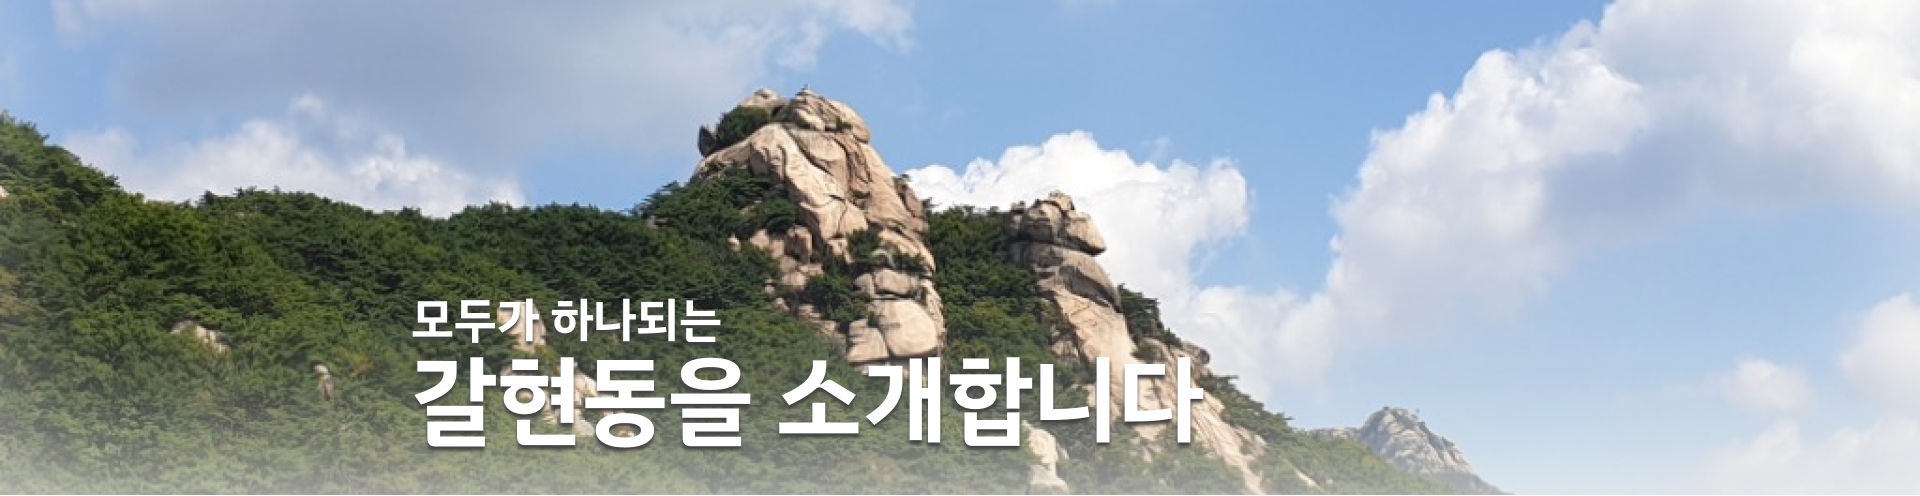
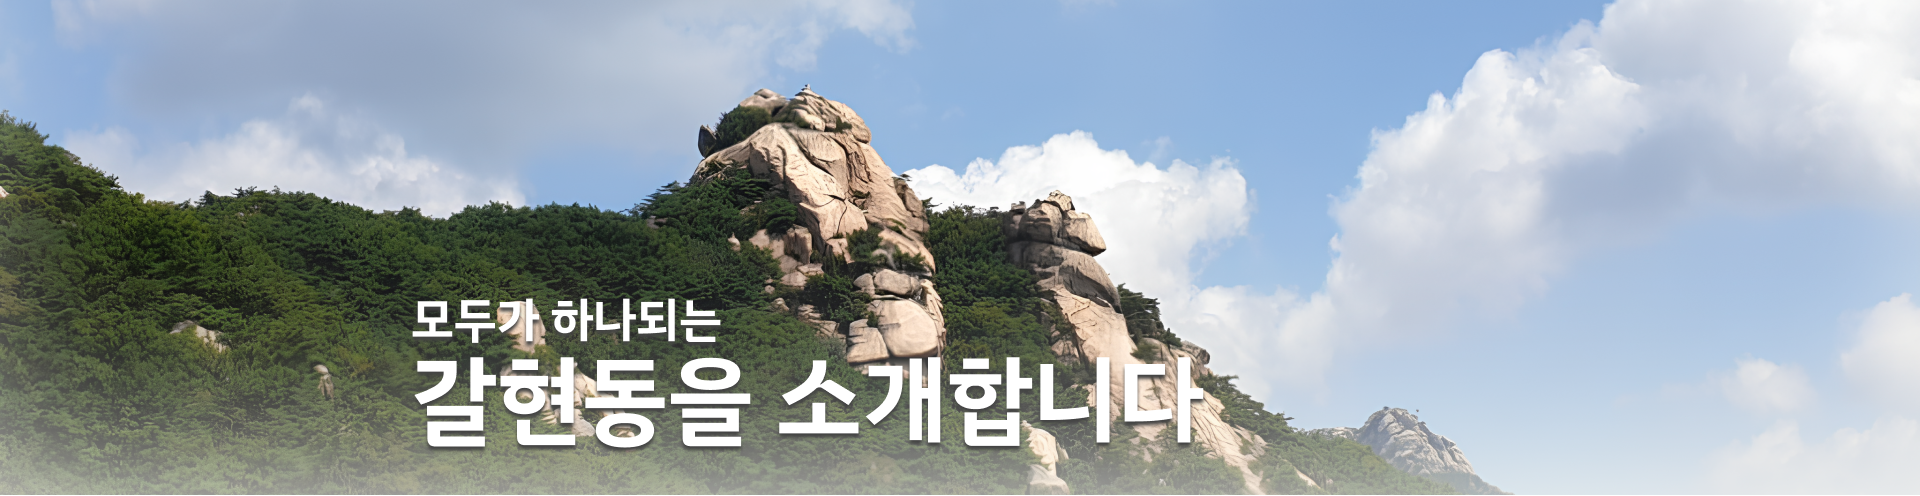
vs update

diff --git a/pro01/index.html b/pro01/index.html
@@ -68,7 +68,7 @@
     
     #vs {  width: 100%; aspect-ratio:120/31; position: relative;  clear: both; display: block;
         box-sizing: border-box; min-width: 1200px;}
-    #vs img { width: 100%;  position:absolute; z-index: -999;  height: auto;}
+    #vs img { width: 100%; max-width: 1920px; position:absolute; z-index: -999;  height: auto;}
     #vs .vs-more { display: inline-block; padding:10px 15px; border:1px solid #fff; 
         font-size:20px; color:#fff; background-color: rgba(0, 0, 0, 0.15);
         position: absolute; bottom: 15%; right:20vw; z-index: 999;
